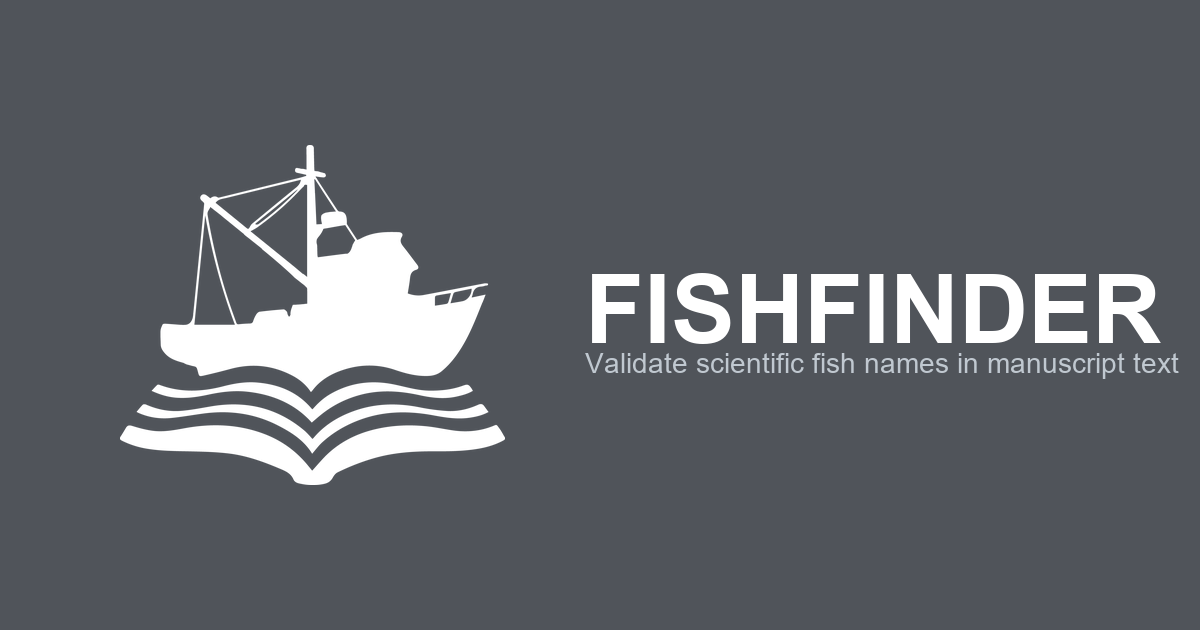
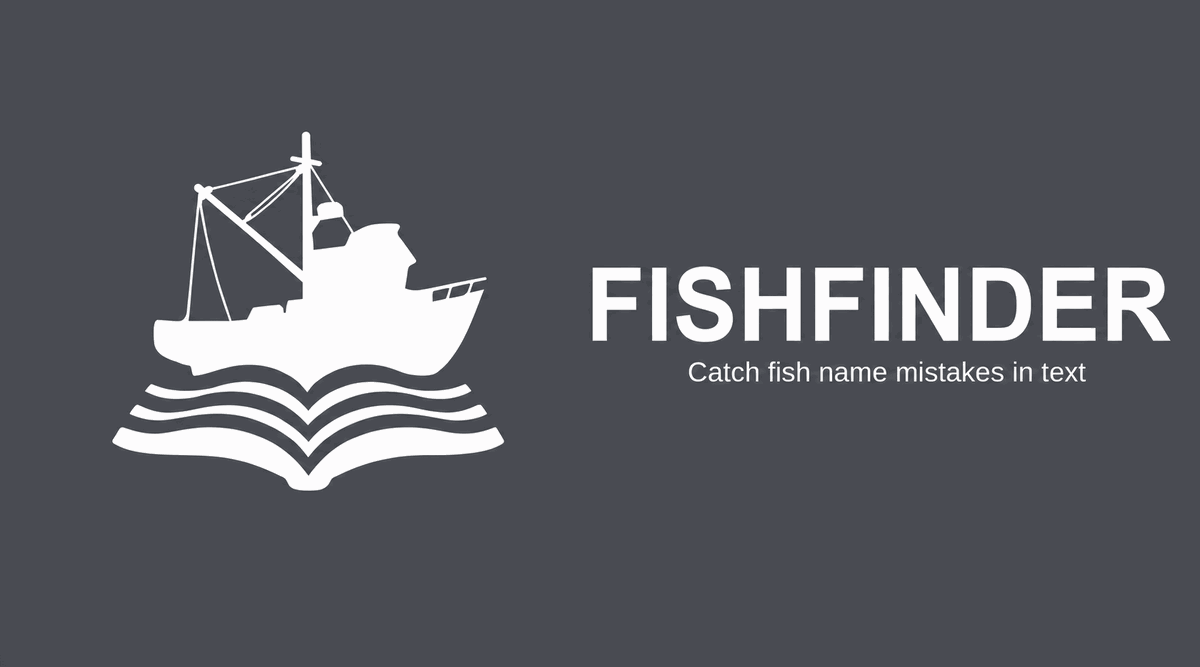
Add Ko-fi support module with branded thumbnail
Add a 'SUPPORT THIS PROJECT' page module between the Affiliations and
Usage dashboard sections: cheeky 'a buck a bug' pitch, a Ko-fi tip-jar
button (ko-fi.com/fishfinder), and an accepted-methods line (PayPal,
Venmo, cards). Two-column layout (pitch left, branded thumbnail right)
that stacks on mobile; styled to match the existing dark-module pattern
and wired into the 44px tap-target + reduced-motion rules.

Plain outbound link (no embedded widget/script) so no CSP change needed.

Also refresh og-preview.png with the new 'Catch fish name mistakes in
text' banner, optimized to 24 KB (1200x667, 256-color palette) since it
now doubles as the on-page thumbnail; sync og:image:height to 667.

Changed region(s): [[0.0925, 0.181, 0.4317, 0.7841], [0.4933, 0.3921, 0.9867, 0.6032]]

diff --git a/fishfinder/css/style.css b/fishfinder/css/style.css
@@ -917,6 +917,93 @@ select.report-input {
 }
 
 /* ══════════════════════════════════════════════════════════════════════════════
+   SUPPORT MODULE
+   ══════════════════════════════════════════════════════════════════════════════ */
+.support-section {
+  max-width: 920px;
+  width: 100%;
+  background: #211f1b;
+  border: 1px solid #3a3630;
+  border-radius: 8px;
+  padding: 1.25rem 1.5rem;
+}
+
+.support-header {
+  font-family: "Arial Black", Impact, sans-serif;
+  font-size: 0.75rem;
+  font-weight: 900;
+  letter-spacing: 0.1em;
+  color: #8a8e86;
+  margin-bottom: 0.85rem;
+}
+
+.support-body {
+  display: flex;
+  align-items: center;
+  gap: 1.5rem;
+  flex-wrap: wrap;
+}
+
+.support-thumb {
+  width: 340px;
+  max-width: 100%;
+  height: auto;
+  border-radius: 6px;
+  border: 1px solid #3a3630;
+}
+
+.support-pitch {
+  flex: 1 1 280px;
+  min-width: 0;
+}
+
+.support-text {
+  font-size: 0.78rem;
+  line-height: 1.65;
+  color: #9a9e94;
+  max-width: 540px;
+  margin: 0 0 1rem;
+}
+
+.support-btn {
+  display: inline-flex;
+  align-items: center;
+  justify-content: center;
+  background: linear-gradient(180deg, #2e2c28 0%, #252320 100%);
+  border: 1px solid #3a3630;
+  border-radius: 4px;
+  color: #80847a;
+  padding: 0.4rem 1rem;
+  font-family: Consolas, "Courier New", monospace;
+  font-size: 0.68rem;
+  font-weight: 700;
+  letter-spacing: 0.08em;
+  text-decoration: none;
+  cursor: pointer;
+  transition: all 0.1s;
+}
+.support-btn:hover {
+  background: linear-gradient(180deg, #363430 0%, #2c2a26 100%);
+  color: #a0a498;
+  border-color: #504c48;
+}
+.support-btn:active {
+  transform: translateY(1px);
+}
+.support-btn:focus-visible {
+  outline: 2px solid #80847a;
+  outline-offset: 2px;
+}
+
+.support-methods {
+  margin-top: 0.6rem;
+  font-family: Consolas, "Courier New", monospace;
+  font-size: 0.58rem;
+  color: #8a8e86;
+  letter-spacing: 0.03em;
+}
+
+/* ══════════════════════════════════════════════════════════════════════════════
    USAGE DASHBOARD
    ══════════════════════════════════════════════════════════════════════════════ */
 .dashboard {
@@ -1107,12 +1194,13 @@ select.report-input {
   .results-grid { grid-template-columns: 1fr; }
   .brand { font-size: 1.8rem; }
   .stats-row { flex-direction: column; }
-  .citations-section, .affiliations-section, .dashboard { padding: 1rem; }
+  .citations-section, .affiliations-section, .support-section, .dashboard { padding: 1rem; }
   .affiliations-body { gap: 1.5rem; }
   .affiliation-logo { height: 190px; }
   .device-btn,
   .consent-btn,
-  .cite-copy-btn { min-height: 44px; }
+  .cite-copy-btn,
+  .support-btn { min-height: 44px; }
 }
 
 @media (prefers-reduced-motion: reduce) {
@@ -1120,6 +1208,7 @@ select.report-input {
   textarea,
   .device-btn,
   .cite-copy-btn,
+  .support-btn,
   .affiliation-logo { transition: none; }
 }
 

diff --git a/fishfinder/index.html b/fishfinder/index.html
@@ -16,7 +16,7 @@
   <meta property="og:type" content="website">
   <meta property="og:image" content="https://fishnames.net/data/og-preview.png">
   <meta property="og:image:width" content="1200">
-  <meta property="og:image:height" content="630">
+  <meta property="og:image:height" content="667">
   <!-- CSP: 'unsafe-inline' in style-src required by Leaflet map + dynamic element sizing -->
   <meta http-equiv="Content-Security-Policy" content="default-src 'self'; script-src 'self' https://cdnjs.cloudflare.com/ajax/libs/mammoth/1.6.0/mammoth.browser.min.js https://cdnjs.cloudflare.com/ajax/libs/xlsx/0.18.5/xlsx.full.min.js https://cdnjs.cloudflare.com/ajax/libs/pdf.js/3.11.174/pdf.min.js https://cdnjs.cloudflare.com/ajax/libs/pdf.js/3.11.174/pdf.worker.min.js https://www.gstatic.com/firebasejs/10.14.1/firebase-app-compat.js https://www.gstatic.com/firebasejs/10.14.1/firebase-database-compat.js https://unpkg.com/leaflet@1.9.4/dist/leaflet.js https://*.firebaseio.com; style-src 'self' https://unpkg.com/leaflet@1.9.4/dist/leaflet.css https://fonts.googleapis.com 'unsafe-inline'; connect-src 'self' https://ipapi.co https://*.firebaseio.com wss://*.firebaseio.com https://*.basemaps.cartocdn.com; img-src 'self' https://*.basemaps.cartocdn.com data:; font-src 'self' https://fonts.gstatic.com; frame-src https://*.firebaseio.com;">
   <script type="application/ld+json">
@@ -280,6 +280,22 @@
     <a href="https://zdzbinden.github.io" target="_blank" rel="noopener" class="affiliation-link">
       <img src="data/merge-lab-logo.png" alt="MERGE Lab" class="affiliation-logo">
     </a>
+  </div>
+</section>
+
+<!-- ── Support ──────────────────────────────────────────────────────────── -->
+<section class="support-section">
+  <h2 class="support-header">SUPPORT THIS PROJECT</h2>
+  <div class="support-body">
+    <div class="support-pitch">
+      <p class="support-text">
+        Found an error you'd have missed? We figure that's worth about a buck.
+        No pressure&nbsp;&mdash; FISHFINDER stays free either way.
+      </p>
+      <a href="https://ko-fi.com/fishfinder" target="_blank" rel="noopener" class="support-btn">DROP A BUCK IN THE TIP JAR</a>
+      <p class="support-methods">Pay with PayPal, Venmo, or any card &mdash; no account needed.</p>
+    </div>
+    <img src="data/og-preview.png" alt="FISHFINDER — catch fish name mistakes in text" class="support-thumb">
   </div>
 </section>
 